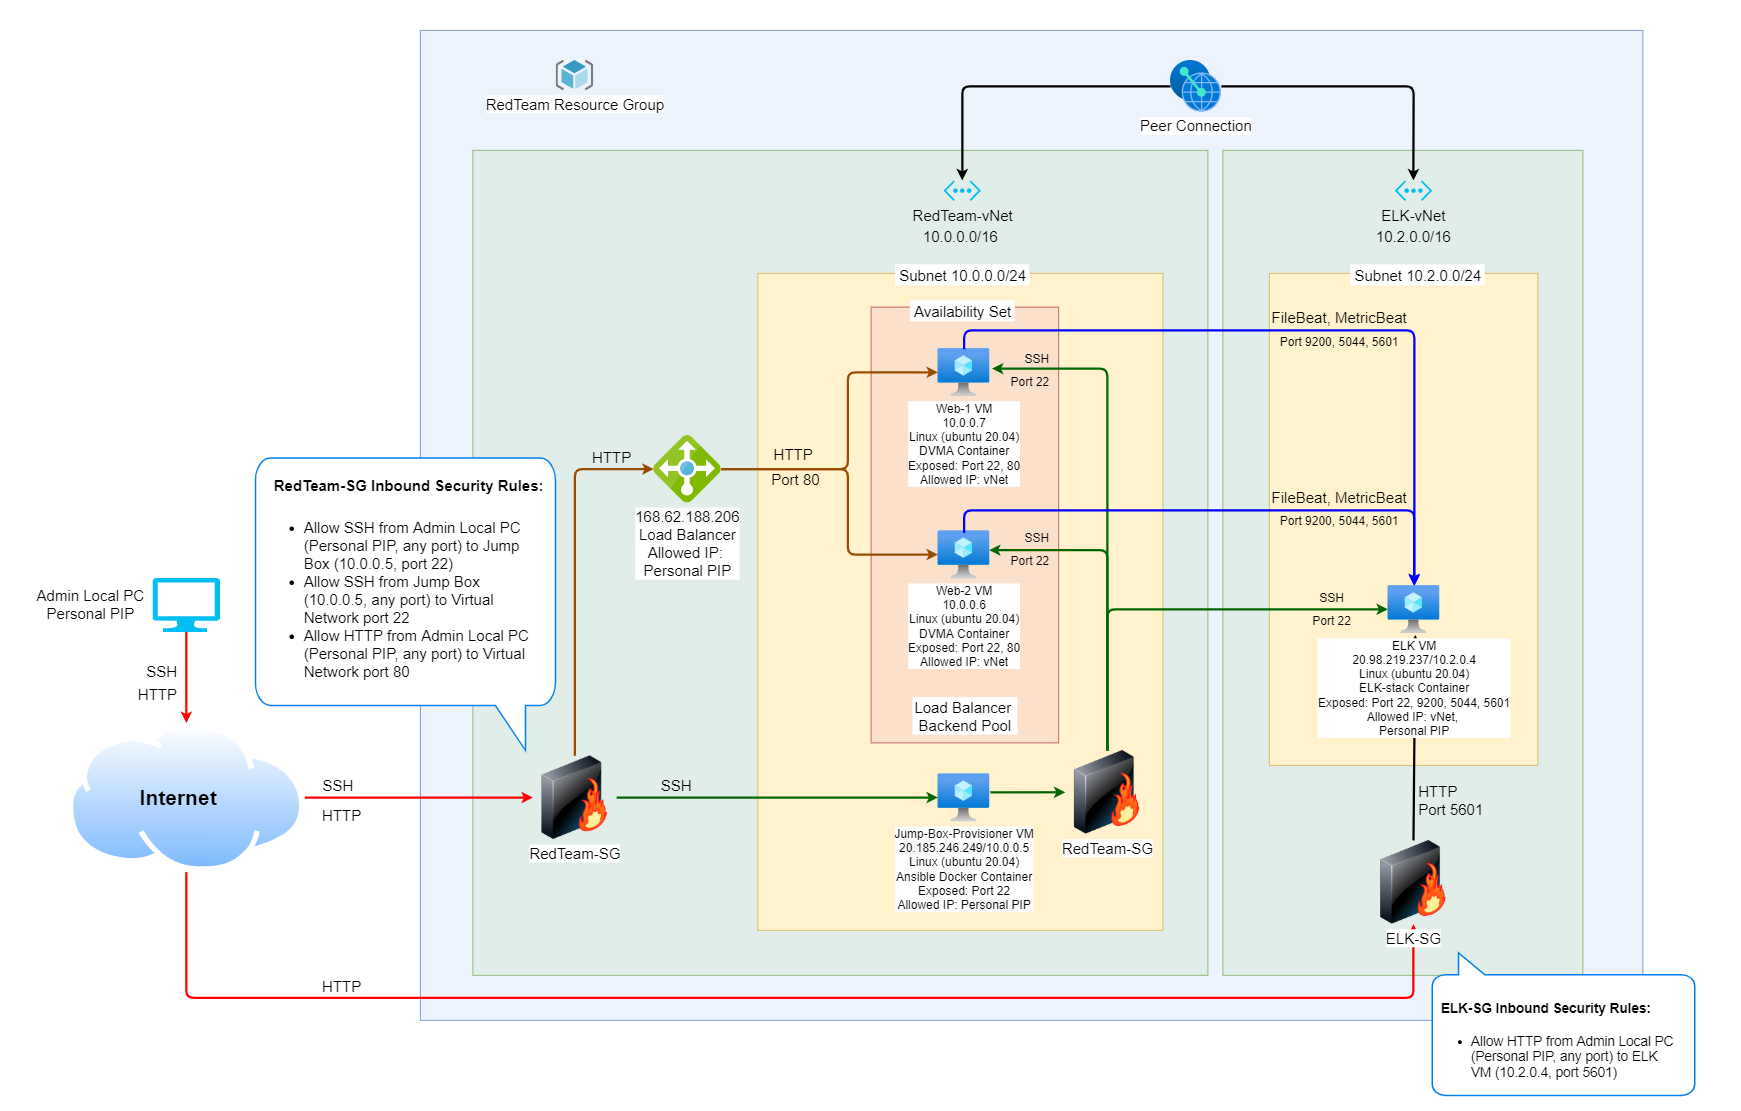
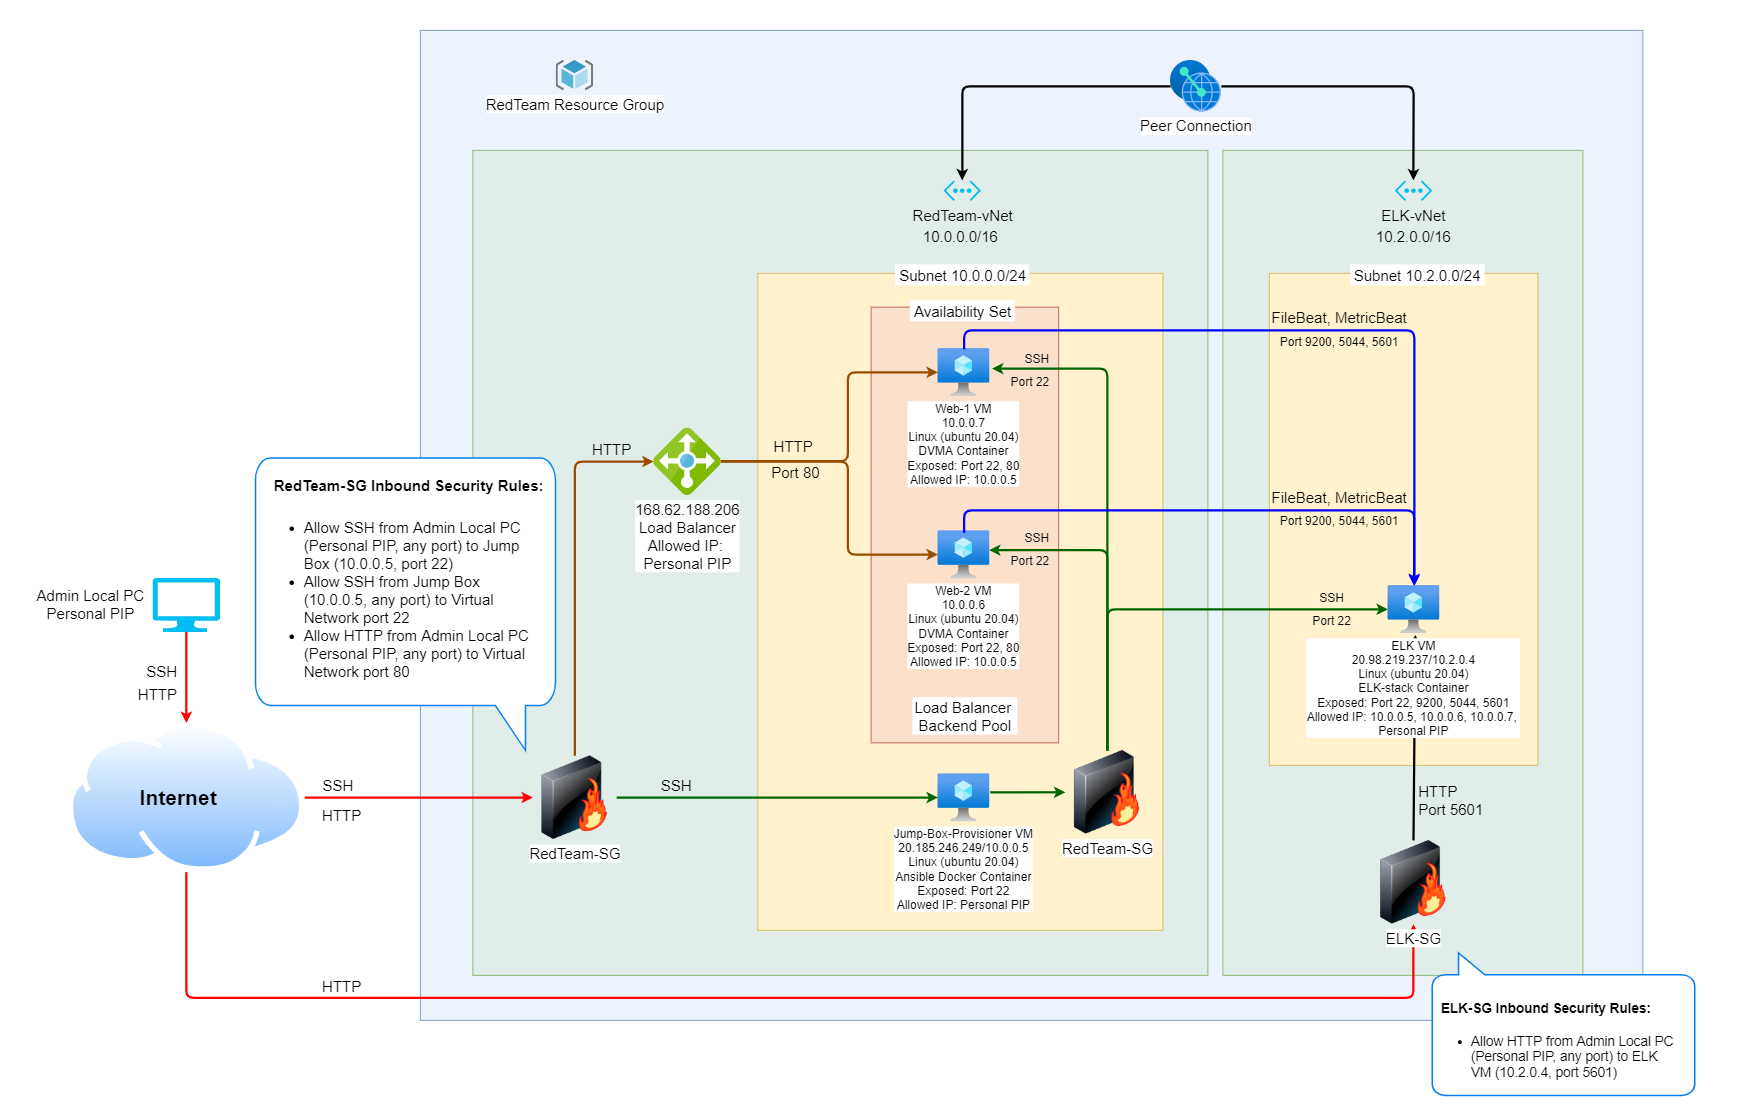
Sync v1.1

diff --git a/README.md b/README.md
@@ -51,11 +51,11 @@ A summary of the access policies in place can be found in the table below.
 
 | Name          | Publicly Accessible | Allowed IP Addresses                        |
 |---------------|---------------------|---------------------------------------------|
-| Jump Box      | Yes                 | Personal PIP (p22)                          |
-| Load Balancer | Yes                 | Personal PIP (p80)                          |
-| Web-1 VM      | No                  | Virtual Network (p22, p80)                  |
-| Web-2 VM      | No                  | Virtual Network (p22, p80)                  |
-| ELK VM        | Yes                 | Personal PIP (p5601), Virtual Network (p22) |
+| Jump Box      | Yes                 | Personal PIP                                |
+| Load Balancer | Yes                 | Personal PIP                                |
+| Web-1 VM      | No                  | Jump Box (10.0.0.5)                         |
+| Web-2 VM      | No                  | Jump Box (10.0.0.5)                         |
+| ELK VM        | Yes                 | Personal PIP, 10.0.0.5, 10.0.0.6, 10.0.0.7  |
 
 ### Elk Configuration
 
